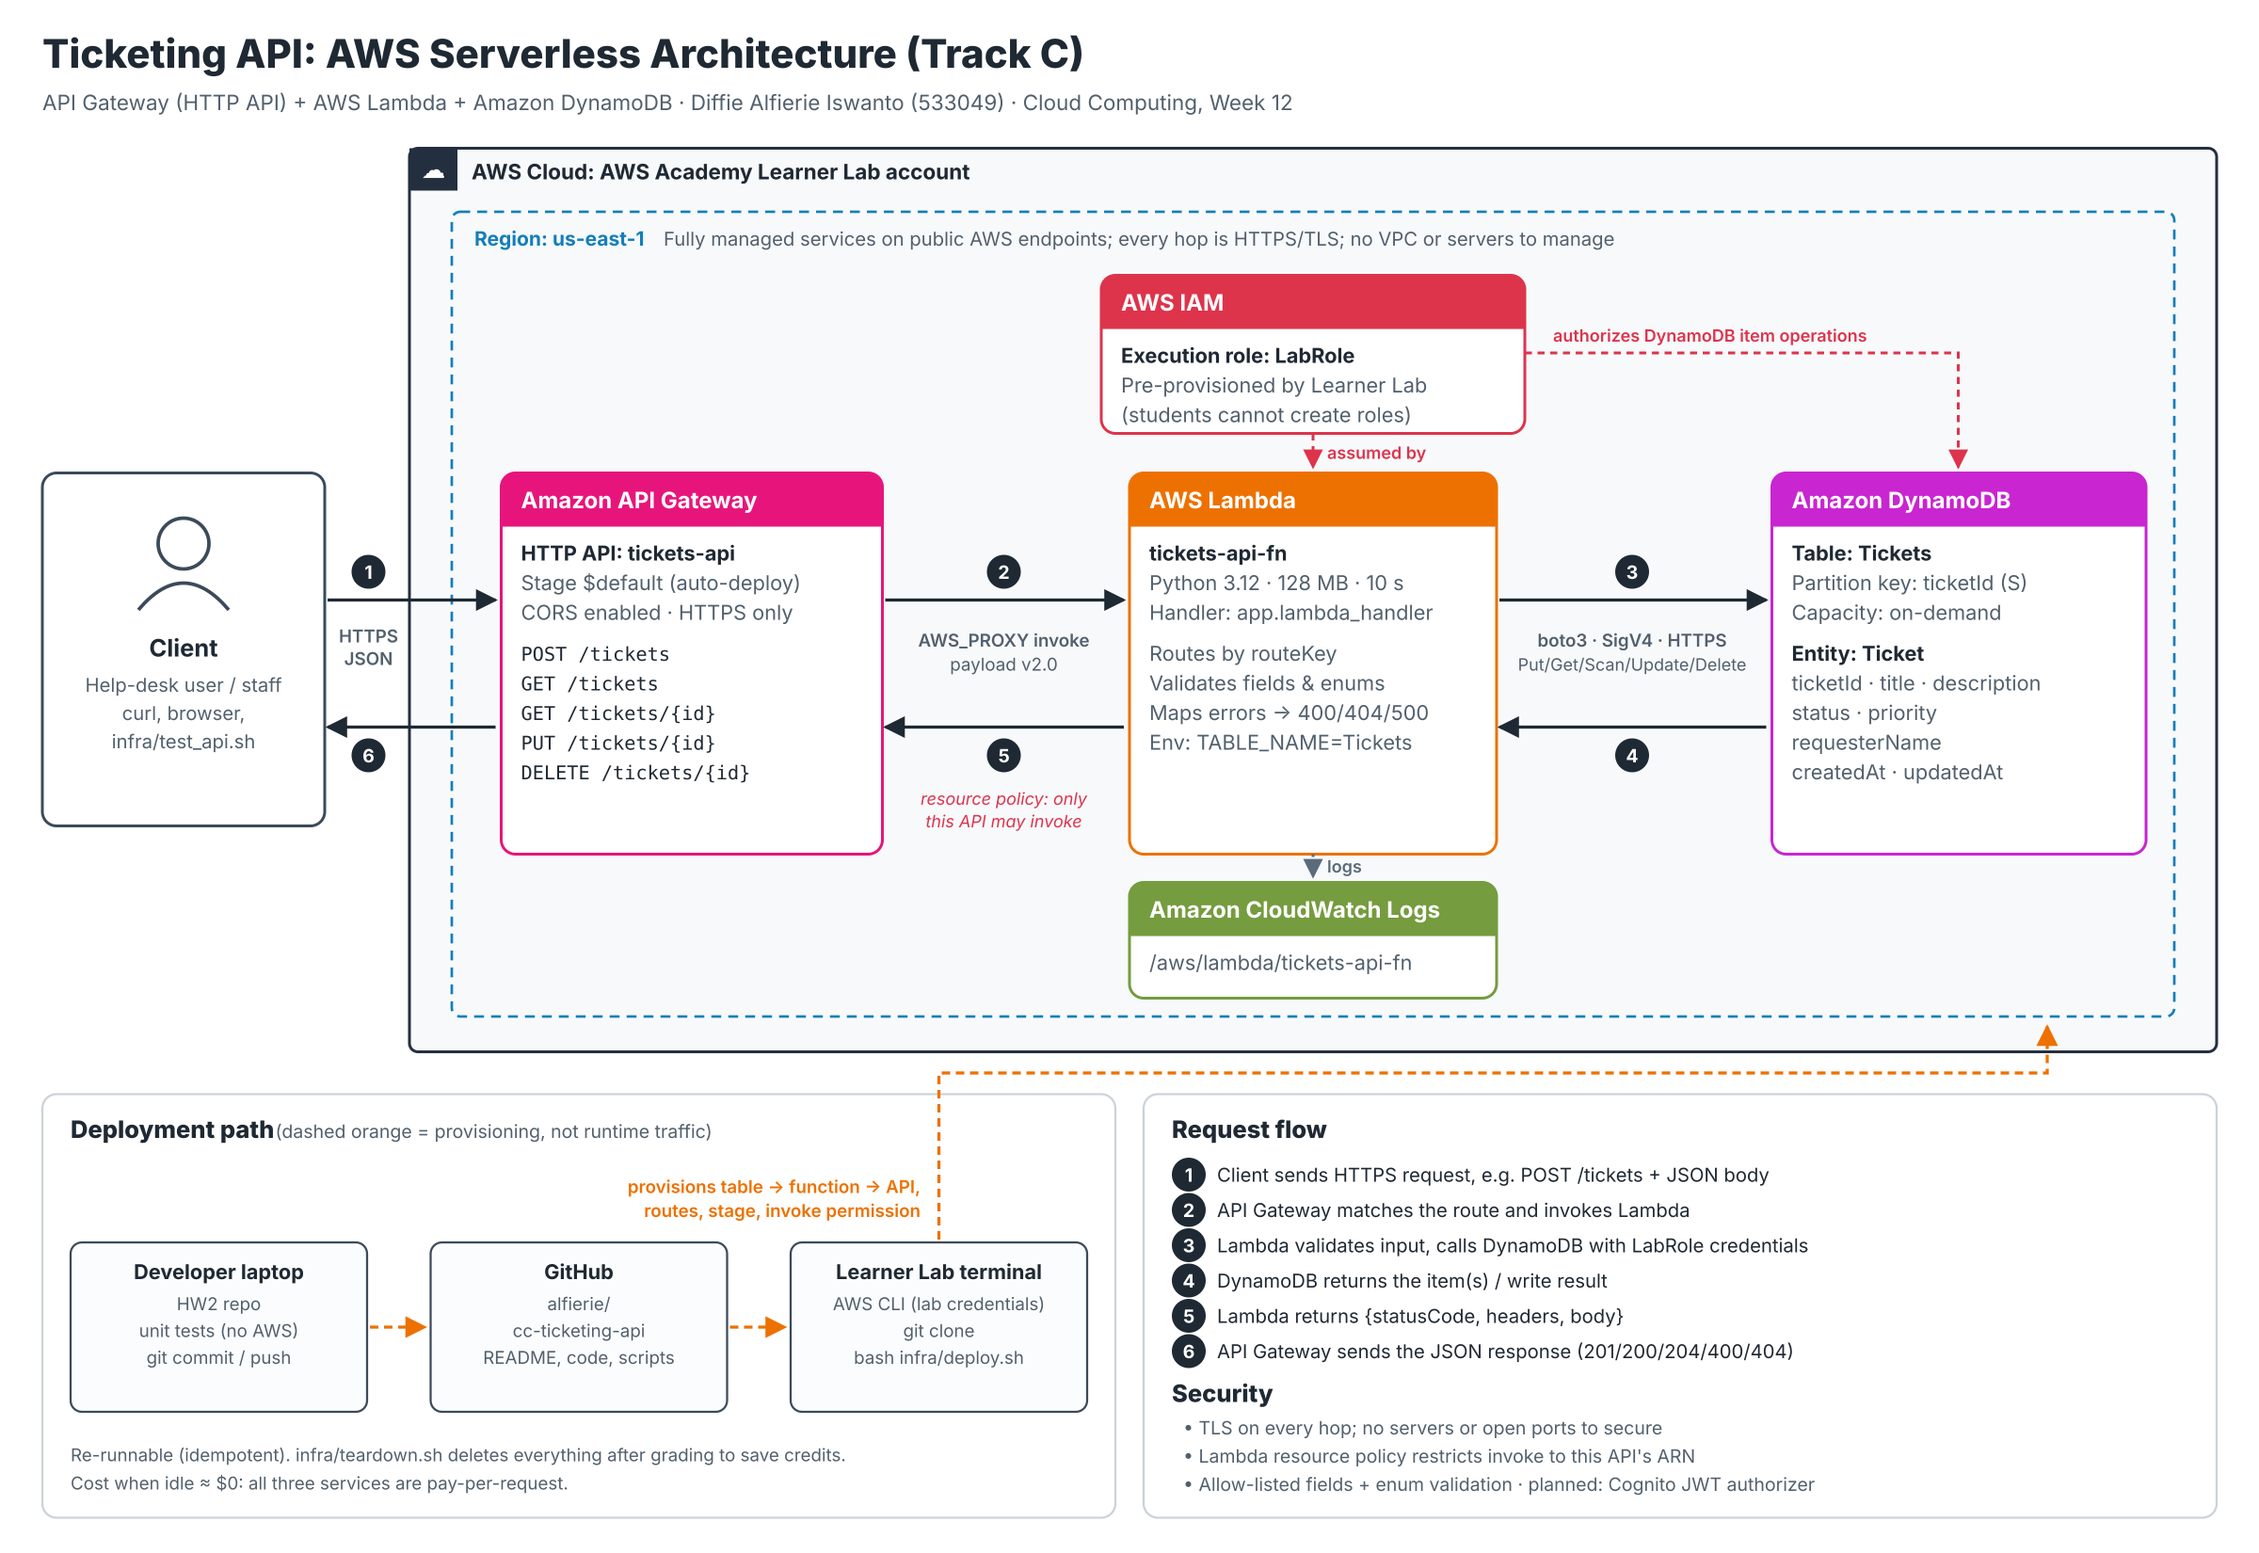
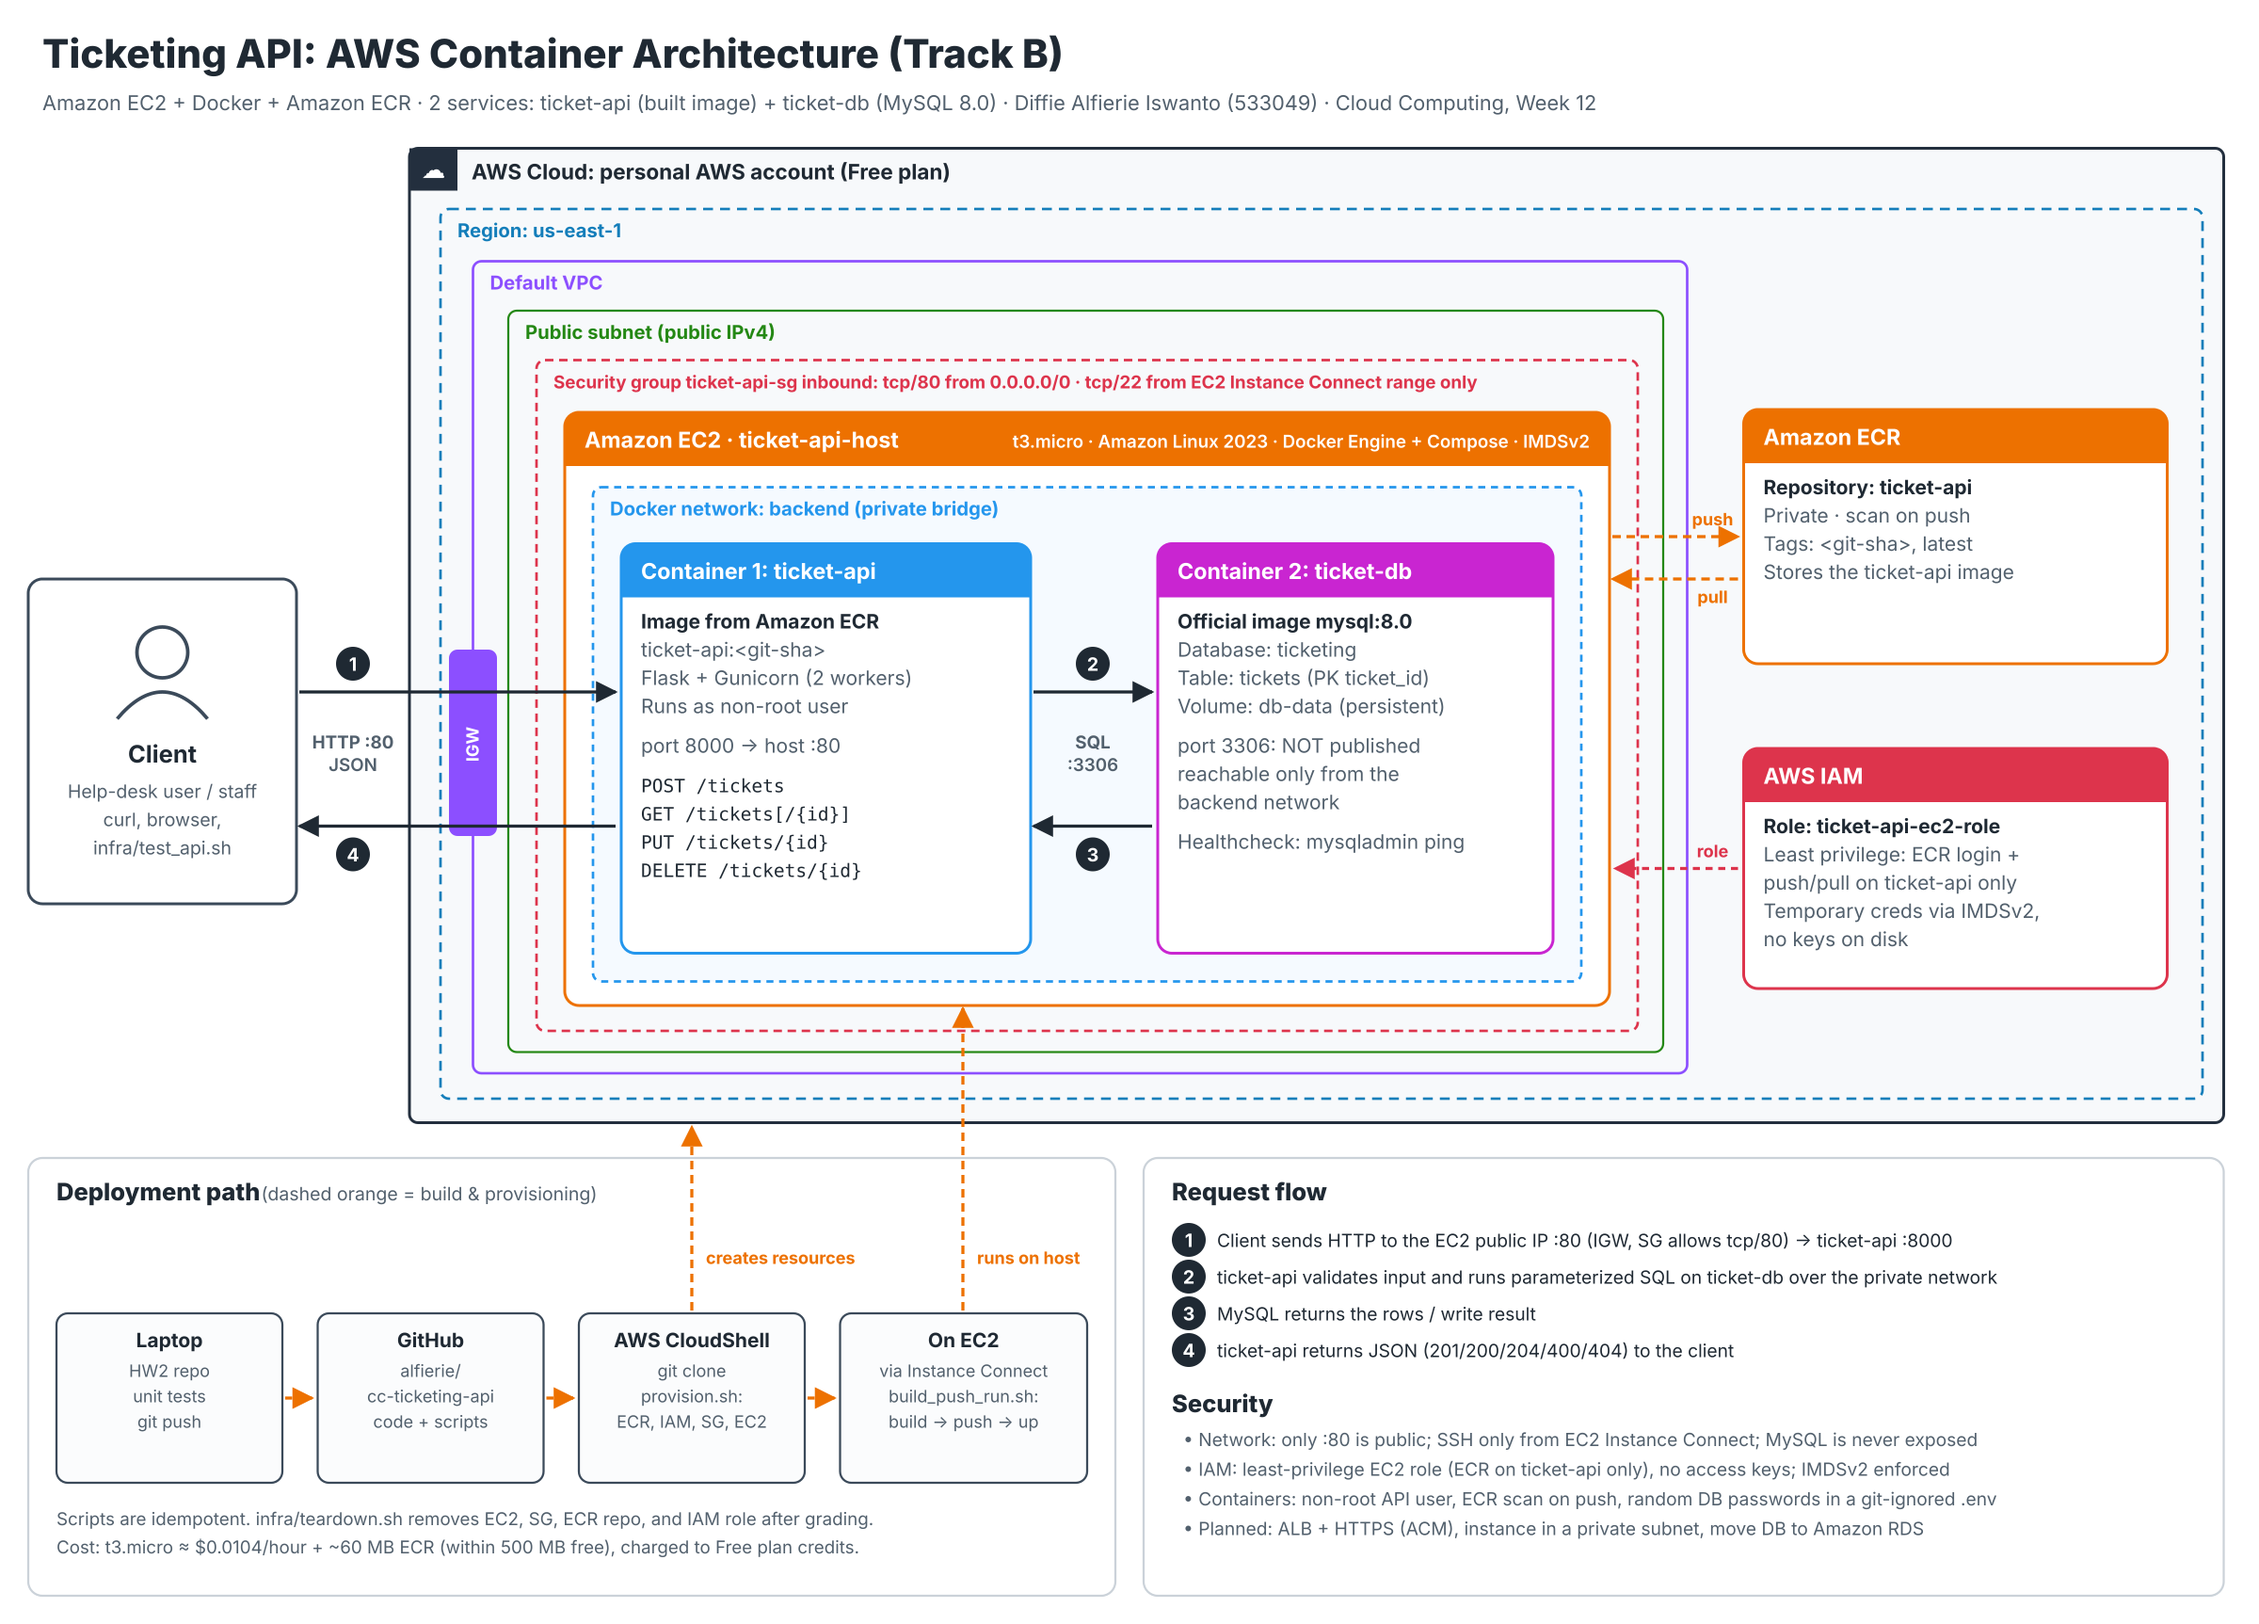
Document deployment on a personal AWS account (Free plan) and update diagram

Changed region(s): [[0.0, 0.0, 1.0, 0.9891]]

diff --git a/docs/deployment-plan.md b/docs/deployment-plan.md
@@ -6,30 +6,36 @@
 |---|---|---|
 | ECR repository | `ticket-api` | Private, scan on push, tags `<git-sha>` + `latest` |
 | Security group | `ticket-api-sg` | In: tcp/80 from 0.0.0.0/0, tcp/22 from the EC2 Instance Connect range only |
-| EC2 instance | `ticket-api-host` | t3.micro, Amazon Linux 2023, default VPC/public subnet, `LabInstanceProfile`, IMDSv2 required |
+| IAM role | `ticket-api-ec2-role` | Trusted by EC2; inline policy: `ecr:GetAuthorizationToken` + push/pull on the `ticket-api` repo only; attached via instance profile `ticket-api-ec2-profile` |
+| EC2 instance | `ticket-api-host` | t3.micro (Free Tier eligible), Amazon Linux 2023, default VPC/public subnet, IMDSv2 required |
 | Container 1 | `ticket-api` | Image from ECR, Gunicorn on port 8000 → host port 80 |
 | Container 2 | `ticket-db` | `mysql:8.0`, volume `db-data`, not published |
 
 Region: `us-east-1`
 
-## Budget
-A t3.micro costs about $0.01/hour, and Learner Lab stops it automatically when the session ends. ECR storage for one image of about 60 MB is around $0.01/month.
-Run `teardown.sh` after grading and click **End Lab** when you're done.
+## Account and budget
+- **Account:** a personal AWS account on the **Free plan**, used because Learner Lab access wasn't available. New accounts get $100 in credits at sign-up (up to $200 total). On the Free plan, usage is charged to those credits, not to the card.
+- **Cost:** a t3.micro is about $0.0104/hour in `us-east-1`, and ECR private storage is free up to 500 MB/month for new customers (the image is about 60 MB). A full day of testing costs well under $1 of credits.
+- **Guardrails:** MFA on the root user, deploy as an IAM admin user (not root), a **zero-spend budget** alert in Billing → Budgets, and `teardown.sh` when finished.
 
 ## Steps
 
-### 0. Start the lab
-AWS Academy → Learner Lab → **Start Lab** → wait for the green dot. Then, in the lab terminal:
+### 0. Account setup (one time)
+1. Sign up at aws.amazon.com and choose the **Free plan**.
+2. Root user → Security credentials → turn on **MFA**.
+3. IAM → Users → create `diffie-admin` with console access and the `AdministratorAccess` policy, then sign in as that user from now on.
+4. Billing and Cost Management → Budgets → **Create budget** → *Zero spend budget* (sends an email alert).
+5. Set the region (top right) to **US East (N. Virginia) us-east-1** and open **CloudShell** (the `>_` icon):
 ```bash
 aws sts get-caller-identity          # screenshot: CLI connectivity
 ```
 
-### 1. Provision AWS resources (lab terminal or CloudShell)
+### 1. Provision AWS resources (CloudShell)
 ```bash
 git clone https://github.com/alfierie/cc-ticketing-api.git && cd cc-ticketing-api
 bash infra/provision.sh
 ```
-This creates the ECR repository and the security group, then launches the EC2 instance. User data installs Docker, Docker Compose, and git, which takes about 2 minutes after the instance shows as running.
+This creates the ECR repository, the IAM role with its instance profile, and the security group, then launches the EC2 instance. User data installs Docker, Docker Compose, and git, which takes about 2 minutes after the instance shows as running.
 
 ### 2. Build, push, and run (on the EC2 instance)
 EC2 console → Instances → `ticket-api-host` → **Connect** → *EC2 Instance Connect* → **Connect**:
@@ -39,7 +45,7 @@ bash infra/build_push_run.sh
 ```
 Expected output: the image builds, both tags are pushed to ECR, `docker compose ps` shows `ticket-api` and `ticket-db` running (healthy), and `/health` returns `{"status":"ok","database":"up"}`.
 
-### 3. Verify connectivity from outside (lab terminal)
+### 3. Verify connectivity from outside (CloudShell)
 ```bash
 bash infra/test_api.sh
 ```
@@ -52,12 +58,13 @@ Expected status codes: health `200` → create `201` → list `200` → get `200
 4. `test_api.sh` output
 5. Console: ECR → `ticket-api` → Images (tags and scan status)
 6. Console: EC2 → `ticket-api-host` (running, public IP, IAM role, security group)
-7. Console: Security group inbound rules
-8. Browser: `http://<public-ip>/tickets`
+7. Console: IAM → Roles → `ticket-api-ec2-role` → Permissions (the least-privilege policy)
+8. Console: Security group inbound rules
+9. Browser: `http://<public-ip>/tickets`
 
 ### 5. Teardown
 ```bash
-bash infra/teardown.sh     # terminates EC2, deletes the security group and the ECR repo
+bash infra/teardown.sh     # terminates EC2; deletes the SG, ECR repo, IAM role + instance profile
 ```
 
 ## Roadmap after Week 12

diff --git a/README.md b/README.md
@@ -3,6 +3,7 @@
 **Course:** Cloud Computing, Individual Project (Week 12: Design & AWS Setup)
 **Student:** Diffie Alfierie Iswanto (533049)
 **Track:** B, Containers (EC2 + Docker + ECR)
+**AWS environment:** personal AWS account (Free plan, `us-east-1`), because AWS Academy Learner Lab access wasn't available at the time of Week 12
 
 This is a small help-desk ticketing backend. Users submit tickets (for example, "projector in room E6 not working"), and staff read them, update their status, and close them.
 It's a JSON REST API with full CRUD on one entity, `Ticket`, packaged as Docker containers on one EC2 instance.
@@ -17,7 +18,7 @@ It's a JSON REST API with full CRUD on one entity, `Ticket`, packaged as Docker 
 | 2 | `ticket-db` | Official `mysql:8.0` | Planned and running | Stores tickets in a Docker volume; private to the Docker network, so it has no public port |
 
 Both run on one **EC2 t3.micro** (Amazon Linux 2023) and are started with **Docker Compose**.
-The EC2 instance pulls from and pushes to ECR using the Learner Lab instance profile (`LabInstanceProfile` / `LabRole`), so no access keys are stored on the server.
+The EC2 instance pushes to and pulls from ECR through its own least-privilege IAM role (`ticket-api-ec2-role`), so no access keys are stored on the server.
 
 ## Data entity: `Ticket`
 
@@ -55,7 +56,8 @@ app/                 ticket-api service (Dockerfile, Flask app, MySQL repository
 db/init.sql          MySQL schema for the tickets table
 docker-compose.yml   api + db services, private network, DB volume
 tests/               Unit tests (Flask test client + in-memory repository)
-infra/provision.sh   ECR repo, security group, and EC2 instance (AWS CLI, idempotent)
+infra/provision.sh   ECR repo, IAM role, security group, and EC2 instance (AWS CLI, idempotent)
+infra/iam/           Trust policy + least-privilege ECR policy for the EC2 role
 infra/user-data.sh   EC2 first boot: installs Docker, Compose, and git
 infra/build_push_run.sh  On EC2: build the image, push it to ECR, then docker compose up
 infra/test_api.sh    End-to-end test of every route
@@ -74,18 +76,18 @@ docker build -t ticket-api:local ./app
 docker compose up -d && curl localhost/health
 ```
 
-## Deploy to AWS Learner Lab
+## Deploy to AWS
 
 The full walkthrough is in [`docs/deployment-plan.md`](docs/deployment-plan.md). In short:
 
-1. In the Learner Lab terminal: `git clone https://github.com/alfierie/cc-ticketing-api.git && cd cc-ticketing-api && bash infra/provision.sh`
+1. In AWS CloudShell (`us-east-1`): `git clone https://github.com/alfierie/cc-ticketing-api.git && cd cc-ticketing-api && bash infra/provision.sh`
 2. EC2 console → `ticket-api-host` → **Connect** (EC2 Instance Connect), then: clone the repo and run `bash infra/build_push_run.sh`
-3. Back in the lab terminal: `bash infra/test_api.sh`
+3. Back in CloudShell: `bash infra/test_api.sh`
 4. When finished: `bash infra/teardown.sh`
 
 ## Security notes
 
 - **Network:** the security group allows only TCP 80 from the internet and TCP 22 from the EC2 Instance Connect IP range. MySQL has no published port; only the `api` container can reach it, over the private `backend` Docker network.
-- **IAM:** the EC2 instance profile (`LabInstanceProfile`) authorizes ECR login, push, and pull, so there are no AWS keys on disk. IMDSv2 is required. In a production account this would be a least-privilege role with only ECR permissions on this repository.
+- **IAM:** the EC2 role `ticket-api-ec2-role` ([`infra/iam/`](infra/iam)) can only call `ecr:GetAuthorizationToken` and push or pull on the `ticket-api` repository ARN. Its credentials are temporary (served through IMDSv2, which is required), so there are no AWS keys on disk. Deployment runs from CloudShell as an IAM admin user, not the root user.
 - **Containers:** the API runs as a non-root user, the image is scanned by ECR on push, DB passwords are generated randomly into `.env` (git-ignored), and every SQL query is parameterized.
 - **Not in scope for Week 12:** HTTPS (planned: Application Load Balancer + ACM certificate) and authentication.
